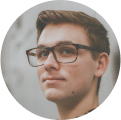
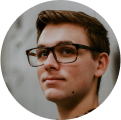
add mobile and desc in js

diff --git a/css/styles-dist.css b/css/styles-dist.css
@@ -1,1 +1,1 @@
-@import "/css/phonkSans.styles.css";@import "/css/roboto.styles.css";body{background:-webkit-gradient(linear,left top,left bottom,from(rgba(0,0,0,0.65)),to(rgba(0,0,0,0.65))),url(/img/trucks-mobile.jpg) no-repeat center/cover;background:linear-gradient(rgba(0,0,0,0.65),rgba(0,0,0,0.65)),url(/img/trucks-mobile.jpg) no-repeat center/cover;height:-webkit-fit-content;height:-moz-fit-content;height:fit-content;min-width:0}body img{border-radius:100px;width:120px;height:120px}.container{min-width:320px;max-width:767px;margin-left:auto;margin-right:auto;margin-top:80px;margin-bottom:60px}@media screen and (min-width:1200px){.container{min-width:1200px}}.container h2{font-family:"phonkSans",sans-serif;font-size:32px;text-transform:uppercase;letter-spacing:2%;color:white;display:-webkit-box;display:-ms-flexbox;display:flex;-webkit-box-pack:center;-ms-flex-pack:center;justify-content:center}@media screen and (min-width:1200px){.container h2{font-size:56px}}.swiper-slide p{font-family:"roboto",sans-serif;font-size:16px;letter-spacing:2%;color:white;width:248px;text-align:center}@media screen and (min-width:1200px){.swiper-slide p{font-size:24px;width:845px}}.swiper-slide-container .reviewer-content{display:-webkit-box;display:-ms-flexbox;display:flex;-webkit-box-orient:vertical;-webkit-box-direction:normal;-ms-flex-direction:column;flex-direction:column;-webkit-box-align:center;-ms-flex-align:center;align-items:center}.swiper-slide-container .reviewer-content .reviewer-name{text-transform:uppercase}@media screen and (min-width:1200px){.swiper-slide-container .reviewer-content .reviewer-name{text-transform:capitalize}}
+@import "/css/phonkSans.styles.css";@import "/css/roboto.styles.css";body{background:-webkit-gradient(linear,left top,left bottom,from(rgba(0,0,0,0.65)),to(rgba(0,0,0,0.65))),url(/img/trucks-mobile.jpg) no-repeat center/cover;background:linear-gradient(rgba(0,0,0,0.65),rgba(0,0,0,0.65)),url(/img/trucks-mobile.jpg) no-repeat center/cover;height:-webkit-fit-content;height:-moz-fit-content;height:fit-content;min-width:0}body img{border-radius:100px;width:120px;height:120px}.container{min-width:320px;max-width:767px;margin-left:auto;margin-right:auto;margin-top:80px;margin-bottom:60px}@media screen and (min-width:1200px){.container{min-width:1200px}}.container h2{font-family:"phonkSans",sans-serif;font-size:32px;text-transform:uppercase;letter-spacing:2%;color:white;display:-webkit-box;display:-ms-flexbox;display:flex;-webkit-box-pack:center;-ms-flex-pack:center;justify-content:center}@media screen and (min-width:1200px){.container h2{font-size:56px}}.swiper-slide p{font-family:"roboto",sans-serif;font-size:16px;letter-spacing:2%;color:white;width:248px;text-align:center}@media screen and (min-width:1200px){.swiper-slide p{font-size:24px;width:845px}}.reviewer-content{display:-webkit-box;display:-ms-flexbox;display:flex;-webkit-box-orient:vertical;-webkit-box-direction:normal;-ms-flex-direction:column;flex-direction:column;-webkit-box-align:center;-ms-flex-align:center;align-items:center}.reviewer-name{text-transform:uppercase}@media screen and (min-width:1200px){.reviewer-name{text-transform:capitalize}}.swiper-slide.swiper-slide-active .review-text,.swiper-slide.swiper-slide-active .reviewer-name{display:block}.swiper-slide .review-text,.swiper-slide .reviewer-name{display:none}.reviewer-content{display:-webkit-box;display:-ms-flexbox;display:flex;-webkit-box-orient:vertical;-webkit-box-direction:normal;-ms-flex-direction:column;flex-direction:column;-webkit-box-align:center;-ms-flex-align:center;align-items:center;-webkit-box-pack:center;-ms-flex-pack:center;justify-content:center}.swiper-slide-active img{width:180px;height:180px}

diff --git a/script.js b/script.js
@@ -1,7 +1,3 @@
-// window.addEventListener("resize", function () {
-//   swiper.update(); // Обновление Swiper
-// });
-
 const prevButton = document.querySelector(".swiper-button-prev");
 const nextButton = document.querySelector(".swiper-button-next");
 
@@ -13,15 +9,48 @@ if (isMobileDevice) {
 
 const swiper = new Swiper(".swiper", {
   direction: "horizontal",
-  effect: "cards",
+  effect: isMobileDevice ? "slide" : "cards",
+  // effect: "cards",
+  slideShadows: false,
+  slidesPerView: 1,
+
   pagination: {
     el: ".swiper-pagination",
   },
 
-  // Navigation arrows
   navigation: {
     nextEl: ".swiper-button-next",
     prevEl: ".swiper-button-prev",
+  },
+
+  on: {
+    slideChange: function () {
+      const currentSlide = this.slides[this.activeIndex];
+
+      const allNames = document.querySelectorAll(".reviewer-name");
+      allNames.forEach((name) => {
+        name.classList.remove("hide-name");
+      });
+
+      const allTexts = document.querySelectorAll(".review-text");
+      allTexts.forEach((text) => {
+        text.classList.remove("hide-text");
+      });
+
+      const otherNames = document.querySelectorAll(
+        ".reviewer-name:not(.swiper-slide-active .reviewer-name)"
+      );
+      otherNames.forEach((name) => {
+        name.classList.add("hide-name");
+      });
+
+      const otherTexts = document.querySelectorAll(
+        ".review-text:not(.swiper-slide-active .review-text)"
+      );
+      otherTexts.forEach((text) => {
+        text.classList.add("hide-text");
+      });
+    },
   },
 
   breakpoints: {

diff --git a/scss/styles.scss b/scss/styles.scss
@@ -13,6 +13,7 @@ body {
     height: 120px;
   }
 }
+
 .container {
   min-width: 320px;
   max-width: 767px;
@@ -56,33 +57,44 @@ body {
   }
 }
 
-.swiper-slide-container {
-  .reviewer-content {
-    display: flex;
-    flex-direction: column;
-    align-items: center;
+.reviewer-content {
+  display: flex;
+  flex-direction: column;
+  align-items: center;
+}
 
-    .reviewer-name {
-      text-transform: uppercase;
+.reviewer-name {
+  text-transform: uppercase;
 
-      @media screen and (min-width: 1200px) {
-        text-transform: capitalize;
-      }
-    }
+  @media screen and (min-width: 1200px) {
+    text-transform: capitalize;
   }
 }
 
-// .swiper-button-prev,
-// .swiper-button-next {
-//   display: none;
-//   @media screen and (min-width: 1200px) {
-//     display: contents;
-//   }
-// }
+.swiper-slide {
+  &.swiper-slide-active {
+    .reviewer-name,
+    .review-text {
+      display: block;
+    }
+  }
+  .reviewer-name,
+  .review-text {
+    display: none;
+  }
+}
 
-// .swiper-button-next {
-//   display: none;
-//   @media screen and (min-width: 1200px) {
-//     display: contents;
-//   }
+.reviewer-content {
+  display: flex;
+  flex-direction: column;
+  align-items: center;
+  justify-content: center;
+}
+
+// .swiper-3d .swiper-slide-shadow {
+//   background-color: transparent;
 // }
+.swiper-slide-active img {
+  width: 180px;
+  height: 180px;
+}

diff --git a/css/styles.css b/css/styles.css
@@ -61,7 +61,7 @@ body img {
   }
 }
 
-.swiper-slide-container .reviewer-content {
+.reviewer-content {
   display: -webkit-box;
   display: -ms-flexbox;
   display: flex;
@@ -73,11 +73,42 @@ body img {
       -ms-flex-align: center;
           align-items: center;
 }
-.swiper-slide-container .reviewer-content .reviewer-name {
+
+.reviewer-name {
   text-transform: uppercase;
 }
 @media screen and (min-width: 1200px) {
-  .swiper-slide-container .reviewer-content .reviewer-name {
+  .reviewer-name {
     text-transform: capitalize;
   }
+}
+
+.swiper-slide.swiper-slide-active .reviewer-name,
+.swiper-slide.swiper-slide-active .review-text {
+  display: block;
+}
+.swiper-slide .reviewer-name,
+.swiper-slide .review-text {
+  display: none;
+}
+
+.reviewer-content {
+  display: -webkit-box;
+  display: -ms-flexbox;
+  display: flex;
+  -webkit-box-orient: vertical;
+  -webkit-box-direction: normal;
+      -ms-flex-direction: column;
+          flex-direction: column;
+  -webkit-box-align: center;
+      -ms-flex-align: center;
+          align-items: center;
+  -webkit-box-pack: center;
+      -ms-flex-pack: center;
+          justify-content: center;
+}
+
+.swiper-slide-active img {
+  width: 180px;
+  height: 180px;
 }
